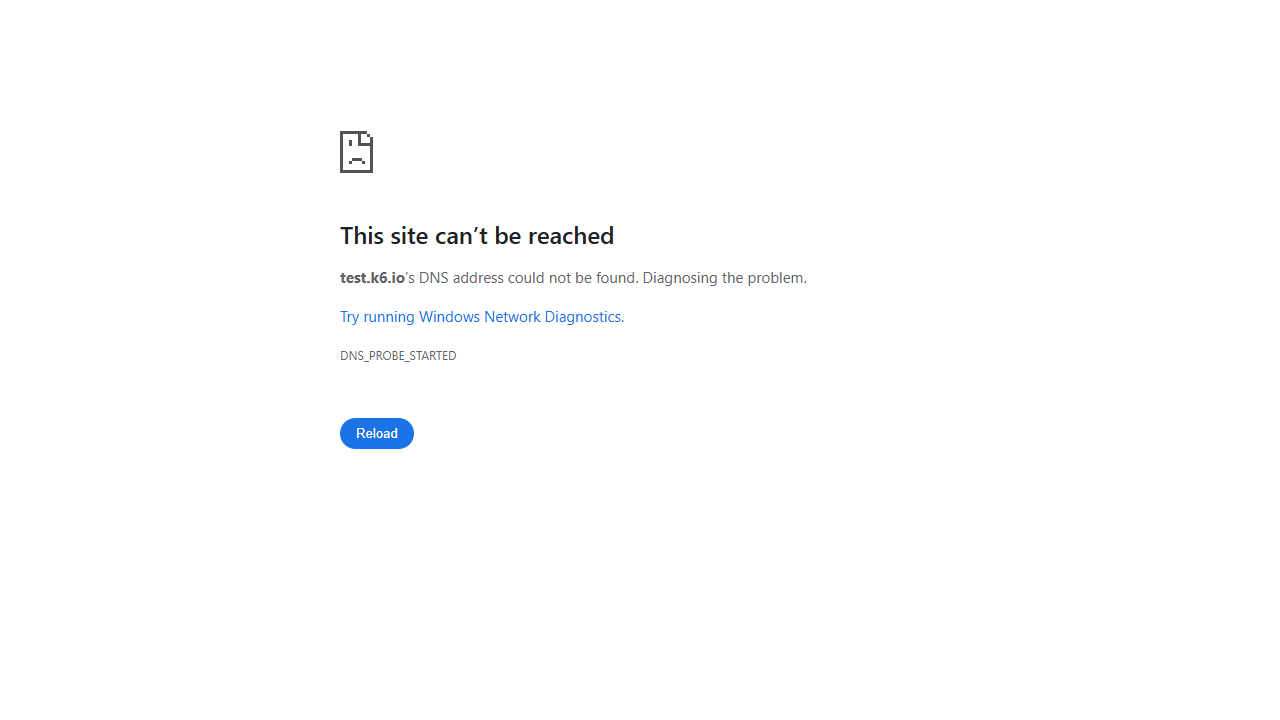
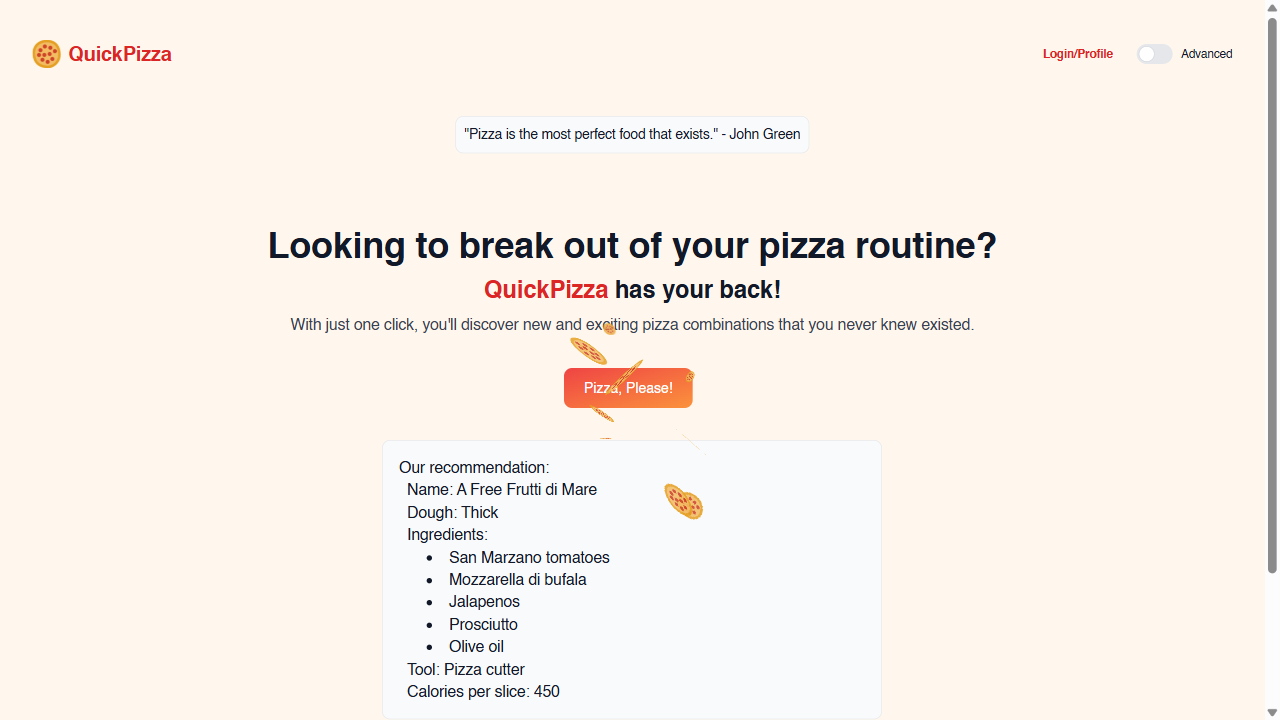
updated scripts

diff --git a/browser-script.js b/browser-script.js
@@ -27,27 +27,38 @@ export function setup() {
   }
 }
 
-export default async function() {
-  let checkData;
+export default async function () {
   const page = await browser.newPage();
 
   try {
     await page.goto(BASE_URL);
 
-    checkData = await page.locator("h1").textContent();
+    // check 1
+    let checkData = await page.locator("h1").textContent();
     check(page, {
       header: checkData === "Looking to break out of your pizza routine?",
     });
 
+    // click button
     await page.locator('//button[. = "Pizza, Please!"]').click();
     await page.waitForTimeout(500);
 
-    await page.screenshot({ path: "screenshot.png" });
+    // 📸 ensure screenshot directory exists
+    try {
+      await browser.ensureDir("screenshots");
+    } catch (_) {
+      // ignore if folder already exists
+    }
 
+    // 📸 take screenshot into folder
+    await page.screenshot({ path: "screenshots/home.png" });
+
+    // check 2
     checkData = await page.locator("div#recommendations").textContent();
     check(page, {
       recommendation: checkData !== "",
     });
+
   } catch (error) {
     fail(`Browser iteration failed: ${error.message}`);
   } finally {
@@ -56,4 +67,3 @@ export default async function() {
 
   sleep(1);
 }
-

diff --git a/Readme.MD b/Readme.MD
@@ -1,4 +1,4 @@
-# xk6 Browser Testing Framework
+# k6 Browser Testing Framework
 A lightweight browser testing setup using k6 with browser automation. 
 This project helps testers automate performance and UI workflows using Chromium.
 for documentations link https://grafana.com/docs/k6/latest/using-k6-browser/
